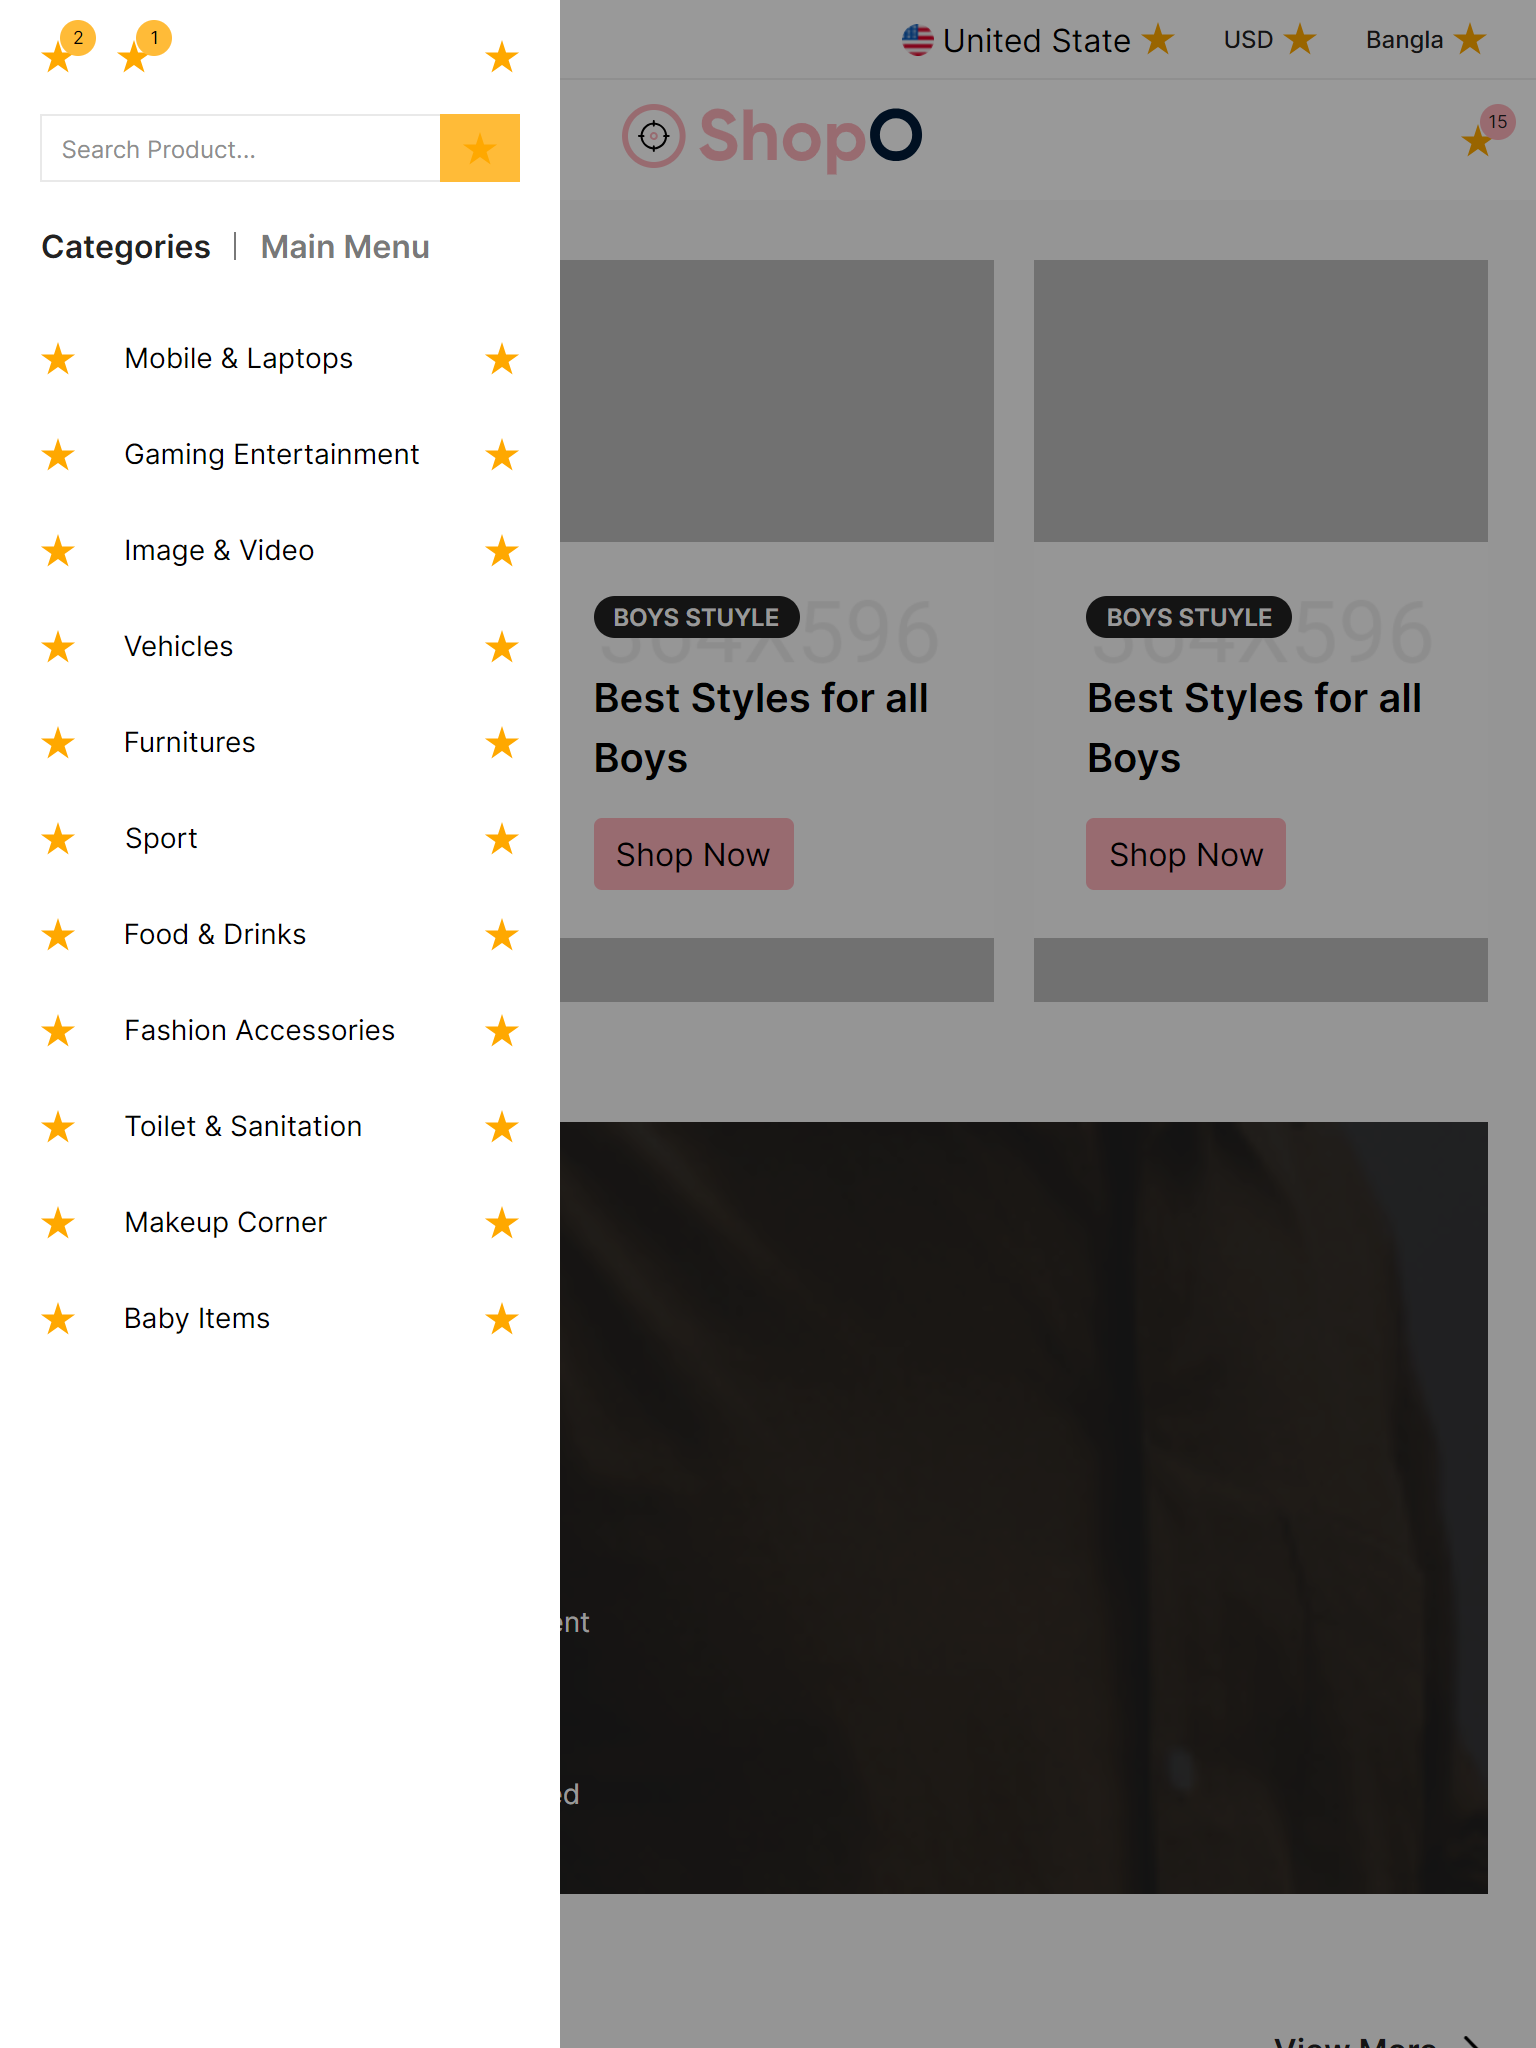
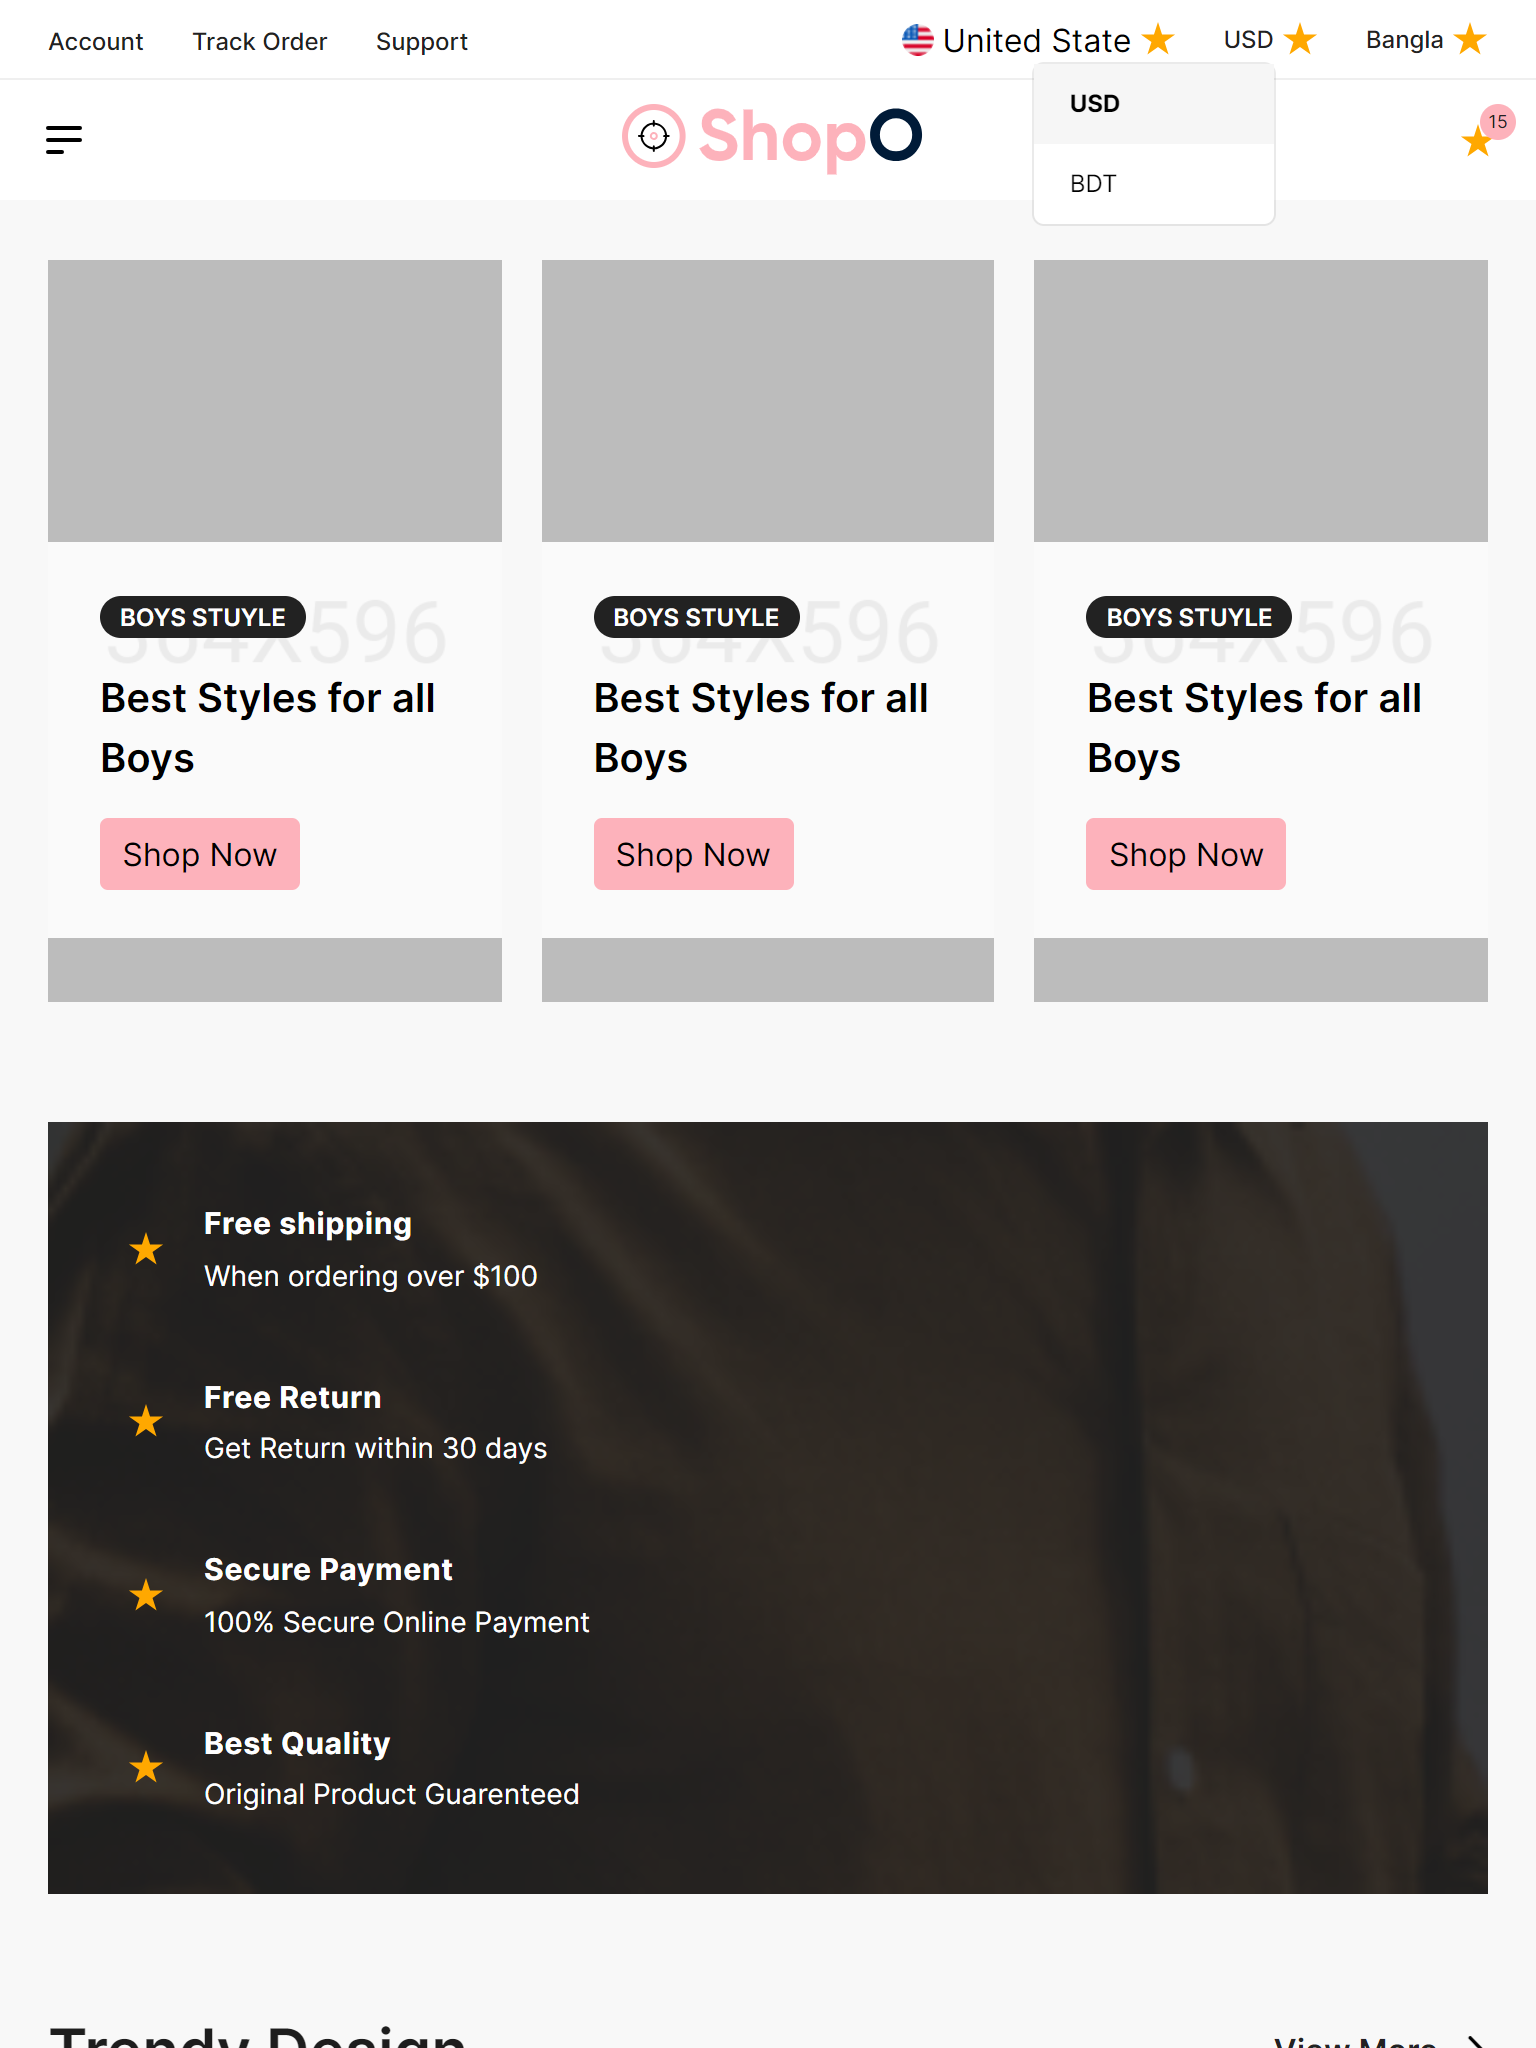
Removed categories list from All Categories

diff --git a/src/components/Headers/Navbar.jsx b/src/components/Headers/Navbar.jsx
@@ -1,20 +1,6 @@
 import { useEffect, useState } from "react";
 import Star from "../icons/Star";
 
-const categoriesList = [
-  { id: "1", category: "Mobile & Laptops" },
-  { id: "2", category: "Gaming Entertainment" },
-  { id: "3", category: "Image & Video" },
-  { id: "4", category: "Vehicles" },
-  { id: "5", category: "Furnitures" },
-  { id: "6", category: "Sport" },
-  { id: "7", category: "Food & Drinks" },
-  { id: "8", category: "Fashion Accessories" },
-  { id: "9", category: "Toilet & Sanitation" },
-  { id: "10", category: "Makeup Corner" },
-  { id: "11", category: "Baby Items" },
-];
-
 export default function Navbar ({ className, type }) {
   const [categoryToggle, setToggle] = useState(false);
   const [elementsSize, setSize] = useState("0px");
@@ -52,22 +38,7 @@ export default function Navbar ({ className, type }) {
                 </button>
                 {categoryToggle && <div className="fixed top-0 left-0 w-full h-full -z-10" onClick={toggleHandler}></div>}
                 <div className="category-dropdown w-full absolute left-0 top-[53px] overflow-hidden" style={{ height: elementsSize }}>
-                  <ul className="categories-list">
-                    {categoriesList.map((category) => (
-                      <li className="category-item" key={category.id}>
-                        <a to="">
-                          
-                          <div className={`flex justify-between items-center px-5 h-10 bg-white transition-all duration-300 ease-in-out cursor-pointer text-qblack ${type === 3 ? "hover:bg-qh3-blue hover:text-white" : "hover:bg-qyellow"}`}>
-                            <div className="flex items-center space-x-6">
-                              <Star />
-                              <span className="text-xs font-400">{category.category}</span>
-                            </div>
-                            <div><Star /></div>
-                          </div>
-                        </a>
-                      </li>
-                    ))}
-                  </ul>
+                 
                 </div>
               </div>
               <div className="nav">

diff --git a/src/components/Headers/index.jsx b/src/components/Headers/index.jsx
@@ -10,7 +10,7 @@ export default function HeaderFour({ className, drawerAction }) {
       <Middlebar className="quomodo-shop-middle-bar lg:block hidden" />
       <div className="quomodo-shop-drawer lg:hidden block w-full h-[60px] bg-white">
         <div className="w-full h-full flex justify-between items-center px-5">
-          <div onClick={drawerAction}>
+          <div >
             <svg
               xmlns="http://www.w3.org/2000/svg"
               className="h-6 w-6"
